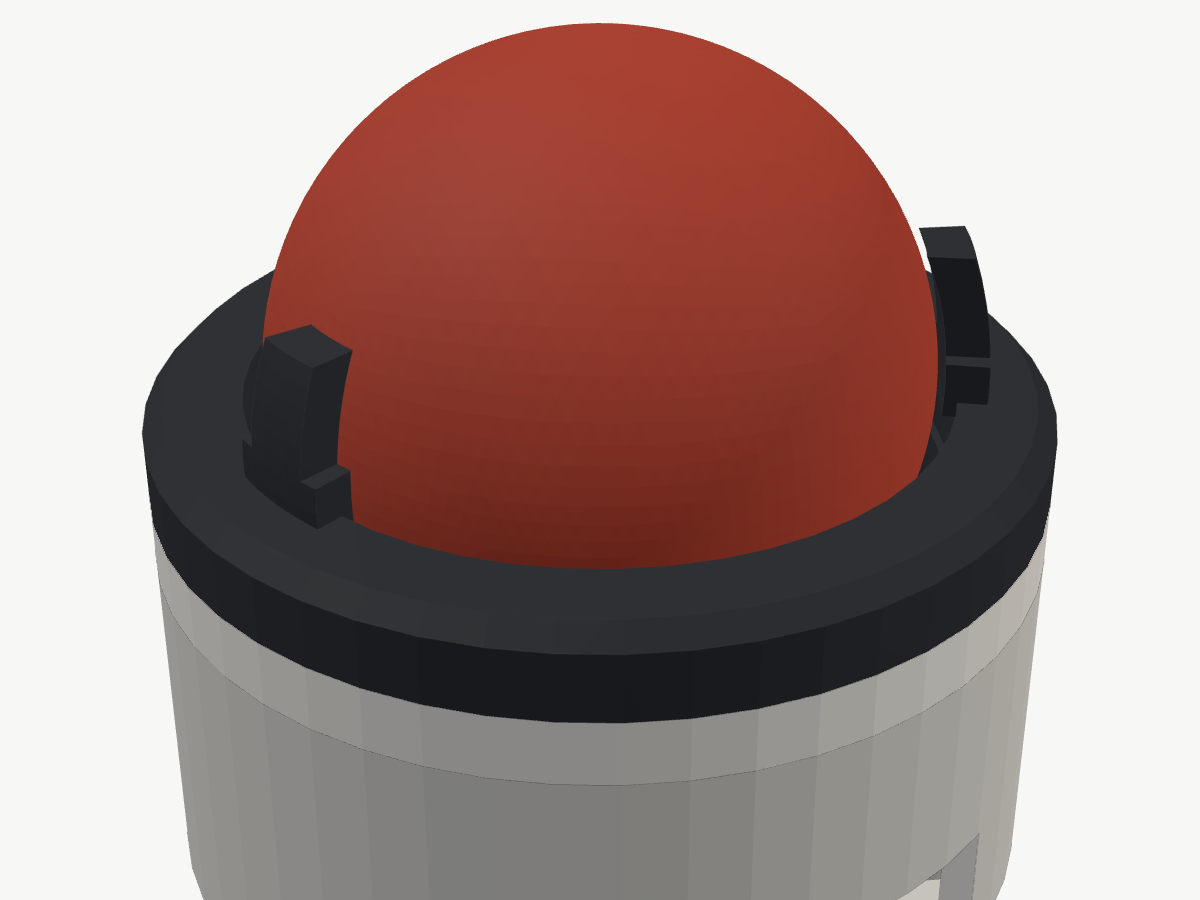
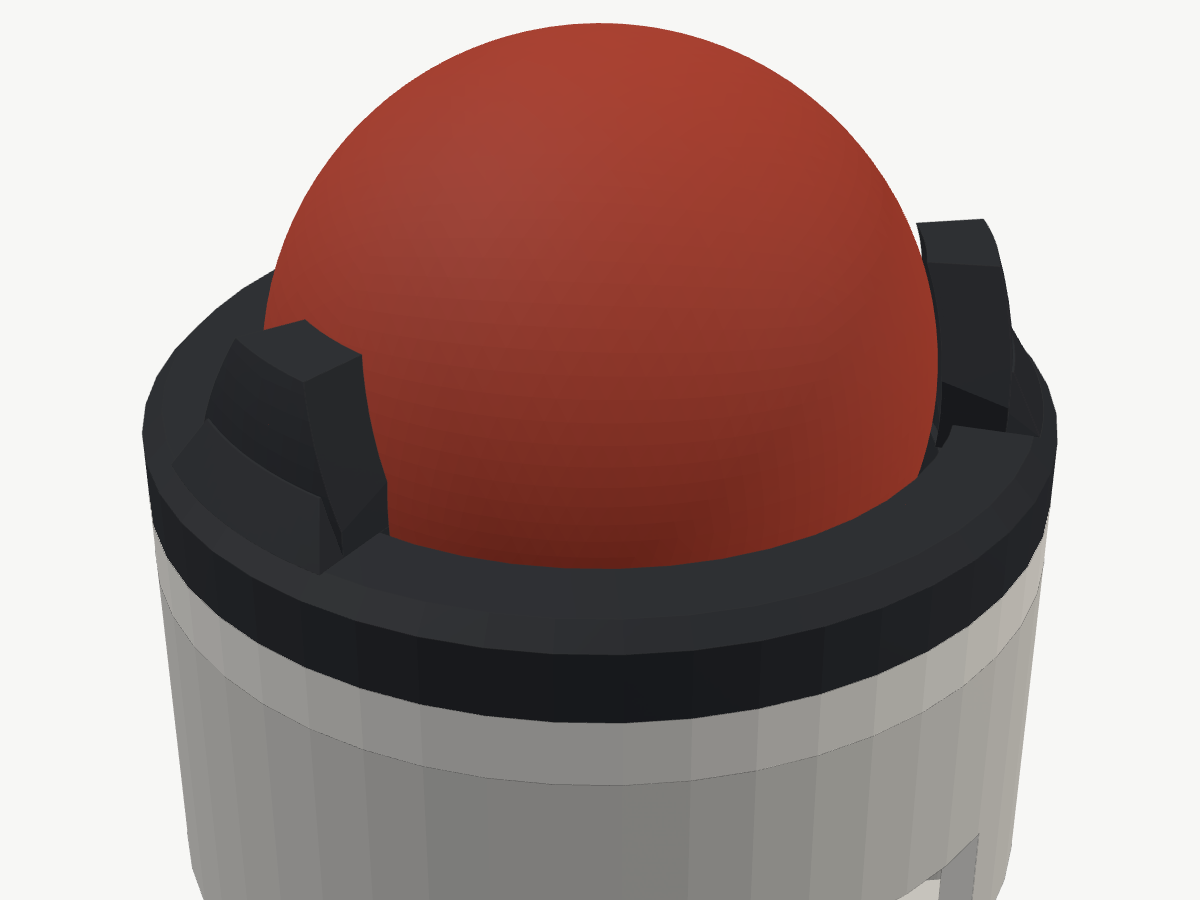
Concept: stronger FDM-friendly claws for the ball cover
Claws are 2.4mm thick, 8mm wide at the root tapering to 4mm, with a
45-degree buttress on the outside so they print support-free in PLA
(e.g. Bambu A1 mini) and keep the 0.7mm overlap. Adds a claw section,
cover render and print settings / strength estimate to the concept notes.

Claude-Session: https://claude.ai/code/session_017zNm7dMSTHELcztuNr6aNy

Changed region(s): [[0.2775, 0.3733, 0.3392, 0.5911], [0.74, 0.2178, 0.8633, 0.3733], [0.2158, 0.3422, 0.2467, 0.3733]]

diff --git a/case/concept_ukishima.py b/case/concept_ukishima.py
@@ -14,6 +14,7 @@
   - 全体を低くする: 床 1.5mm、電池は床のくぼみ (底 0.5mm) に入れ、基板の下のすき間を 7 → 5.85mm に
 """
 import json
+import math
 import os
 import sys
 
@@ -44,9 +45,12 @@ KEY_TOP = PLATE_T + 7.5
 # --- 爪留めカバー ---
 RING_TOP = KEY_TOP + 0.3          # リングの上面 (キーキャップとほぼ同じ高さ)
 CLAWS = (160, 50, 270)            # 爪の向き (親指の来る -20° のまわりは空ける)
-CLAW_W = 3.2                      # 爪の幅 (根元)
-CLAW_TIP_W = 2.2                  # 爪の幅 (先)
-CLAW_OVER = 0.7                   # 爪の先がボールにかぶる幅 (半径で)
+CLAW_OVER = 0.7                   # 爪の先がボールにかぶる幅 (半径で)。これを基準にする
+# 3D プリント (A1 mini などの 0.4mm ノズル・PLA) で折れにくい形
+CLAW_T = 2.4                      # 爪の厚さ (ボールの外側へ)。0.4mm ノズルで壁 6 周 = 中まで詰まる
+CLAW_ROOT_W = 8.0                 # 爪の幅 (根元・mm)
+CLAW_TIP_W = 4.0                  # 爪の幅 (先・mm)
+BUTTRESS = 2.0                    # 根元の外側の「控え壁」の張り出し (45° の斜面 → サポートなしで印刷できる)
 
 KEYS = {
     "left": [(c*U, r*U) for c in range(5) for r in range(4)] + [(5*U, 0), (5*U, 2*U), (5*U, 3*U), (6*U, 0)],
@@ -78,12 +82,24 @@ def claw_cover(size):
     tip_r = R_ - CLAW_OVER                                   # 爪の先の半径
     tip_z = cz + ((R_ + 0.3)**2 - tip_r**2) ** 0.5            # 爪の先の高さ (ボールの赤道より上)
     claws = []
-    shell = (mf.Manifold.sphere(R_ + 1.9, 128) - mf.Manifold.sphere(R_ + 0.3, 128)).translate([0, 0, cz])
+    r_mid = R_ + 0.3 + CLAW_T/2
+    shell = (mf.Manifold.sphere(R_ + 0.3 + CLAW_T, 128) - mf.Manifold.sphere(R_ + 0.3, 128)).translate([0, 0, cz])
+
+    def half_deg(width, r):
+        return math.degrees(width/2/r)
     for a in CLAWS:
-        # ボールの曲面に沿った細い爪 (球の殻を細い扇形で切り出す)。根元は広く、先は細く
-        lower = bu.sector(0, R_ + 4, a - 9, a + 9, RING_TOP - 0.6, cz + 1.0)
-        upper = bu.sector(0, R_ + 4, a - 6, a + 6, cz + 1.0, tip_z)
-        claws.append(shell ^ (lower + upper))
+        # 爪: 根元が広く先が細い台形を、ボールの曲面に沿った殻で切り出す
+        root = bu.sector(0, R_ + 6, a - half_deg(CLAW_ROOT_W, r_mid), a + half_deg(CLAW_ROOT_W, r_mid),
+                         RING_TOP - 1.0, RING_TOP)
+        tip = bu.sector(0, R_ + 6, a - half_deg(CLAW_TIP_W, r_mid), a + half_deg(CLAW_TIP_W, r_mid),
+                        tip_z - 0.01, tip_z)
+        claw = shell ^ mf.Manifold.batch_hull([root, tip])
+        # 根元の外側の控え壁 (三角の断面。根元を厚くして、層の境目で折れにくくする)
+        r_out = R_ + 0.3 + CLAW_T
+        wb = half_deg(CLAW_ROOT_W, r_mid)
+        foot = bu.sector(R_ + 0.3, min(r_out + BUTTRESS, bu.UNIT_R - 0.6), a - wb, a + wb, RING_TOP - 0.01, RING_TOP)
+        top = bu.sector(R_ + 0.3, r_out, a - wb*0.8, a + wb*0.8, RING_TOP + BUTTRESS - 0.01, RING_TOP + BUTTRESS)
+        claws.append(claw + mf.Manifold.batch_hull([foot, top]))
     m = ring + k.union(claws)
     m = m - mf.Manifold.sphere(R_ + 0.3, 128).translate([0, 0, cz])          # 爪の内側をボールに沿わせる
     spigot = (k.cyl(0, 0, bu.RECESS_Z + 0.2, bu.CUP_TOP + 0.01, bu.SPIGOT_R) -

diff --git a/tools/draw_concept.py b/tools/draw_concept.py
@@ -40,6 +40,30 @@ def main(out):
                             "浮島（低く・爪留め）：親指の来る向きの断面（右手・25mm ボール）", labels, px=12)
     open(os.path.join(out, "ukishima-section.svg"), "w").write(ds.svg(W, H, body))
 
+    # 爪の断面 (奥の爪 160° を、ボールの中心を通って縦に切る。右が爪のある外側)
+    unit = [(n, m) for n, m in parts.items() if n.startswith("ball")]
+    a = cu.CLAWS[0]
+    R_ = 12.5
+    cz = z0 + bu.BALL_BOTTOM + R_
+    rin = R_ + 0.3
+    labels2 = [
+        (rin + 1.2, claw_top - 0.6, f"爪の先：かぶり {cu.CLAW_OVER}mm（高さ 約{claw_top:.0f}mm）", (22, 31)),
+        (rin + 1.5, cz + 1.5, f"爪の厚さ {cu.CLAW_T}mm（壁 6 周で中まで詰まる）", (22, 27.5)),
+        (rin + cu.CLAW_T + 0.6, cu.RING_TOP + 0.6, f"控え壁（45°・サポート不要）根元 約{cu.CLAW_T + cu.BUTTRESS:.1f}mm", (22, 24)),
+        (15.5, cu.RING_TOP - 1.5, f"リング：上面 約{cu.RING_TOP:.1f}mm", (22, 20.5)),
+        (14.0, bu.CUP_TOP - 1.5, "ひねってロックする差し込み部", (22, 17)),
+        (5, cz, "ボール 25mm", (22, 13.5)),
+    ]
+
+    def arrow(X, Y):
+        return (f'<line x1="{X(-15):.1f}" y1="{Y(14):.1f}" x2="{X(-15):.1f}" y2="{Y(27):.1f}" stroke="#2e86c1" stroke-width="3"/>'
+                f'<path d="M{X(-15)-8:.1f},{Y(26):.1f} L{X(-15):.1f},{Y(28):.1f} L{X(-15)+8:.1f},{Y(26):.1f}" fill="none" stroke="#2e86c1" stroke-width="3"/>'
+                f'<text x="{X(-14.6):.1f}" y="{Y(21):.1f}" font-size="16" fill="#2e86c1">印刷の向き</text>'
+                f'<text x="{X(-14.6):.1f}" y="{Y(19.5):.1f}" font-size="14" fill="#2e86c1">（下から上へ積む）</text>')
+    W2, H2, body2 = ds.section(unit, "az", (bx, by, a), ((-17, 20), (10, 34)),
+                               "爪の断面（奥の爪・3D プリントで折れにくい形）", labels2, px=22, overlay=arrow)
+    open(os.path.join(out, "ukishima-claw.svg"), "w").write(ds.svg(W2, H2, body2))
+
 
 if __name__ == "__main__":
     main(sys.argv[1] if len(sys.argv) > 1 else "docs/concept")
